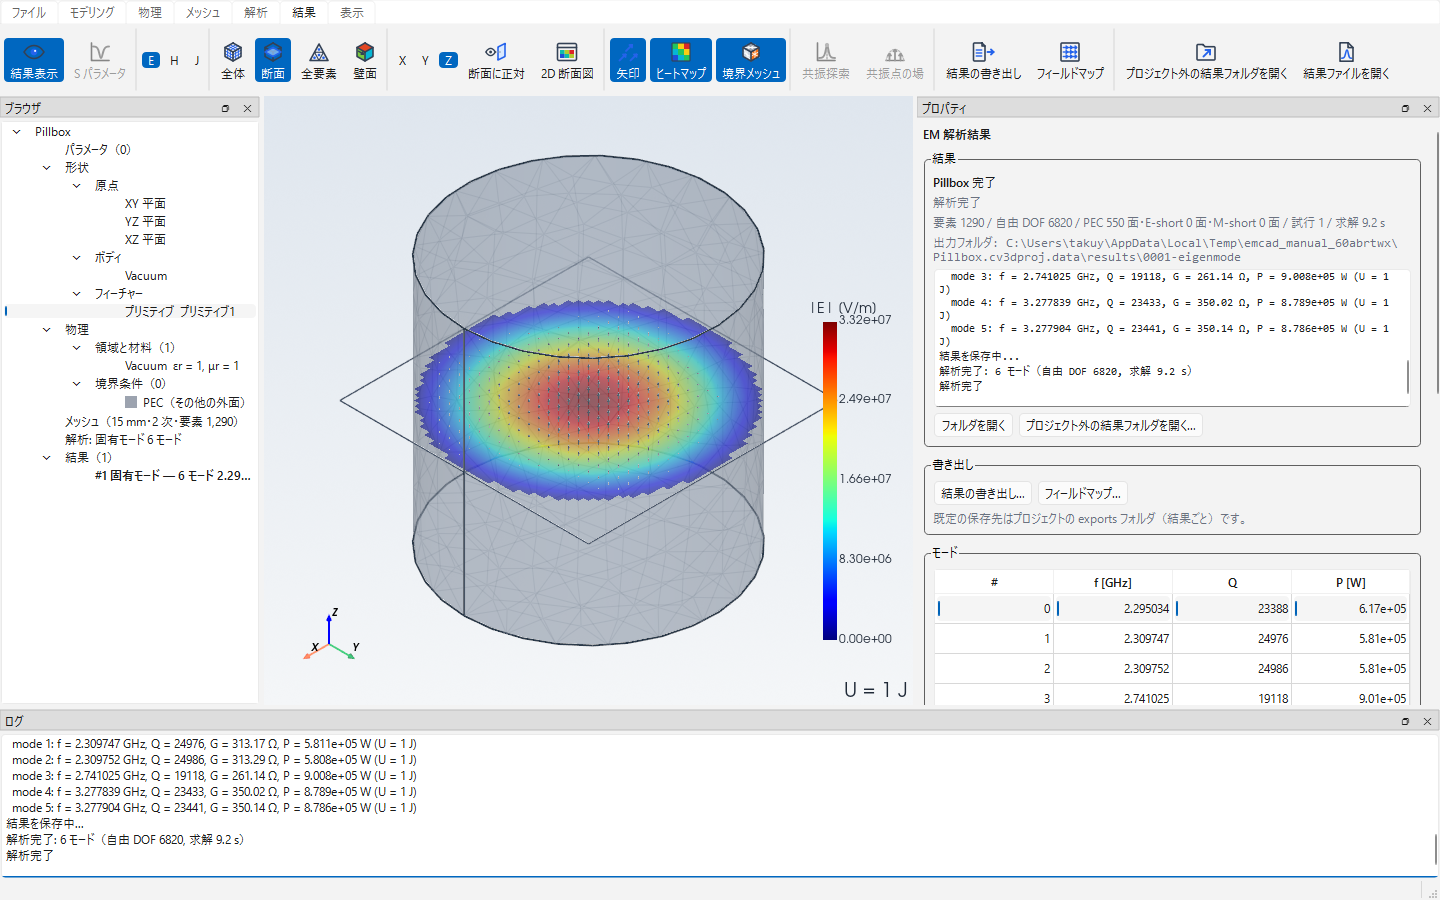
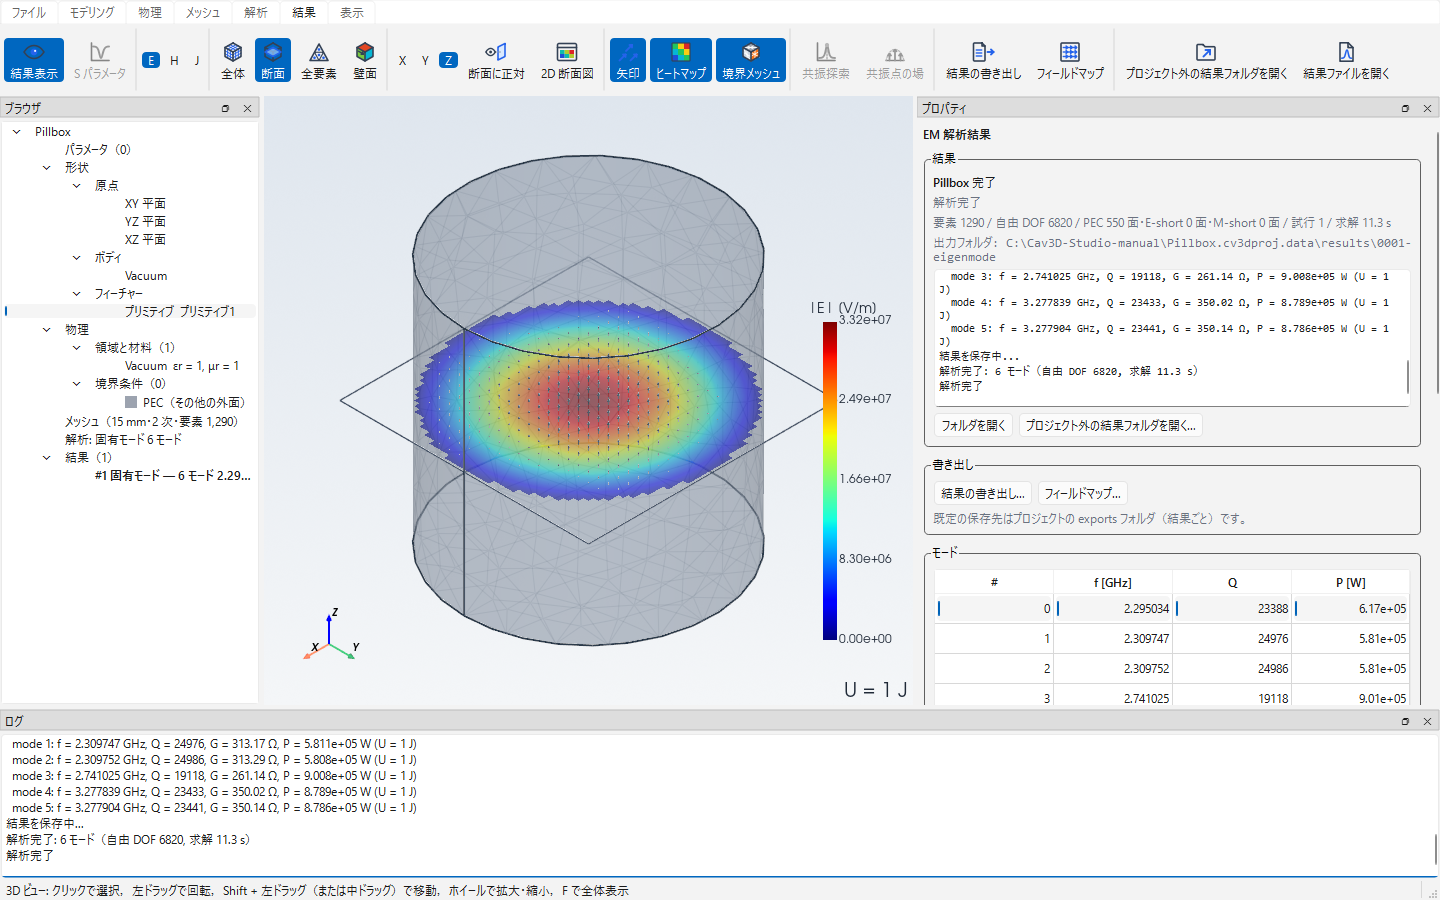
Cav3D Studio 0.1.1: 操作マニュアルの更新
表示タブの表示スタイル（通常・半透明・ワイヤーフレーム）と半断面、Shift + 左ドラッグでの画面の移動、
細い棒・穴の自動細分化の説明を追加し、マニュアルの画像を今の画面で撮り直した。

Changed region(s): [[0.6562, 0.2489, 0.9688, 0.3111], [0.0, 0.9644, 0.4375, 0.9956], [0.8125, 0.4044, 0.8438, 0.4356]]

diff --git a/docs/manual/ribbon_buttons.md b/docs/manual/ribbon_buttons.md
@@ -137,6 +137,14 @@
 | <img src="icons/view_iso.svg" width="20" height="20"> | 等角 | 斜め上から見ます（等角） |
 | <img src="icons/fit.svg" width="20" height="20"> | 全体表示 | 全体が入るように表示します |
 | <img src="icons/perspective.svg" width="20" height="20"> | 透視投影 | オンで透視投影、オフで平行投影（奥の物体も同じ大きさで表示） |
+| <img src="icons/style_shaded.svg" width="20" height="20"> | 通常 | ボディを面と稜線で表示します（ふだんの表示） |
+| <img src="icons/style_translucent.svg" width="20" height="20"> | 半透明 | ボディの面を半透明にして中を透かして見ます（面もクリックで選べます） |
+| <img src="icons/style_wireframe.svg" width="20" height="20"> | ワイヤーフレーム | ボディの稜線だけを表示します（面は隠れるので選べません。ボディは稜線のクリックで選べます） |
+| <img src="icons/section.svg" width="20" height="20"> | 半断面 | 座標平面でボディを切り、片側を取り除いて中を見ます（境界メッシュと壁面の場も切ります。切り口の奥の面もクリックで選べます） |
+|  | XY | 切る座標平面（原点を通る面を「位置」の分だけ法線方向にずらします） |
+|  | YZ | 切る座標平面（原点を通る面を「位置」の分だけ法線方向にずらします） |
+|  | XZ | 切る座標平面（原点を通る面を「位置」の分だけ法線方向にずらします） |
+| <img src="icons/section_flip.svg" width="20" height="20"> | 反転 | 取り除く側を逆にします（既定は座標の大きい側を取り除きます） |
 | <img src="icons/reset_layout.svg" width="20" height="20"> | レイアウトを初期状態に戻す | ブラウザ・プロパティ・ログの配置と、2D 断面図・S パラメータ図のウィンドウの位置を初期状態に戻します |
 
-「スケッチ終了」は緑の大きなボタン（リボンの左端とスケッチ画面の右上）。E / H・X / Y / Z は文字だけの切り替えボタン。
+「スケッチ終了」は緑の大きなボタン（リボンの左端とスケッチ画面の右上）。E / H・X / Y / Z と半断面の XY / YZ / XZ は文字だけの切り替えボタン（半断面の位置は入力欄）。
